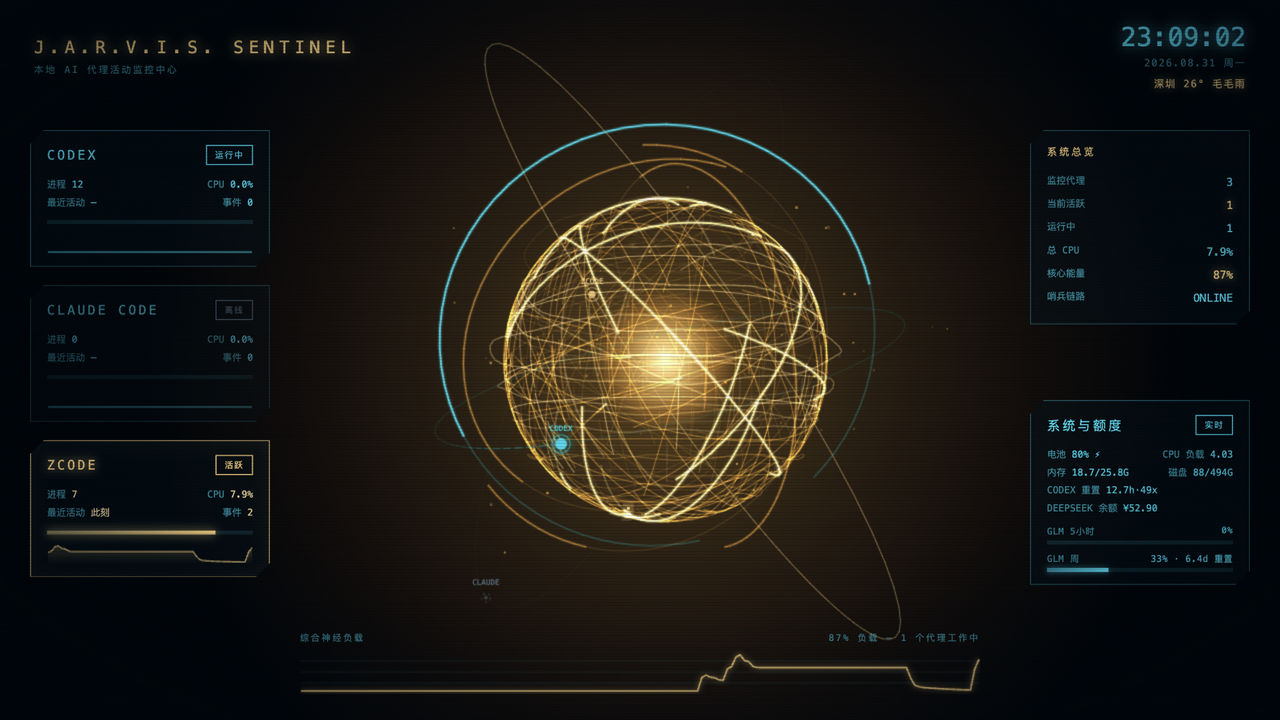
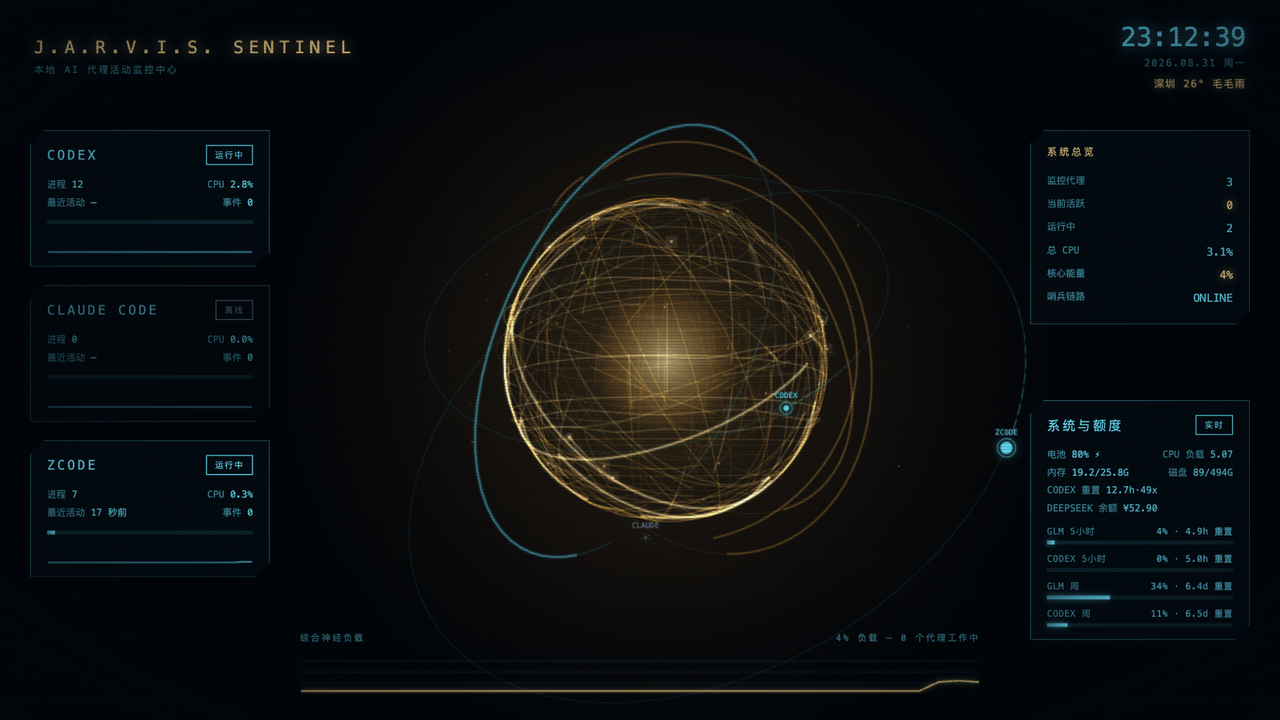
fix: Codex quota windows now work — initialize with clientInfo; 4 quota bars (GLM/CODEX x 5h/week); update screenshot

diff --git a/sentinel.py b/sentinel.py
@@ -11,6 +11,7 @@ JARVIS Sentinel — 本地 AI 编码代理活动哨兵
 import json
 import os
 import re
+import select
 import shutil
 import ssl
 import subprocess
@@ -311,8 +312,28 @@ CODEX_BINS = (
 )
 
 
+def _dur_name(mins):
+    """窗口时长 → 中文名（参考项目 durationName 的约定）"""
+    try:
+        m = int(mins or 0)
+    except (TypeError, ValueError):
+        return ""
+    if m == 300:
+        return "5小时"
+    if m == 10080:
+        return "周"
+    if m > 0 and m % 10080 == 0:
+        return f"{m // 10080}周"
+    if m > 0 and m % 1440 == 0:
+        return f"{m // 1440}天"
+    if m > 0 and m % 60 == 0:
+        return f"{m // 60}小时"
+    return ""
+
+
 def fetch_codex_rate():
-    """Codex 额度窗口：spawn 本机 codex app-server 查询 account/rateLimits/read"""
+    """Codex 额度窗口：spawn 本机 codex app-server 查询 account/rateLimits/read。
+    initialize 必须带 clientInfo（桌面版内置 codex 会校验），否则无响应。"""
     exe = next((p for p in CODEX_BINS if p and os.path.isfile(p)), None)
     if not exe:
         return {"ok": False, "error": "NO BIN"}
@@ -322,16 +343,23 @@ def fetch_codex_rate():
                                 stderr=subprocess.DEVNULL, text=True)
     except Exception as e:
         return {"ok": False, "error": str(e)[:80]}
-    result = {}
+    result, init_err = None, None
     try:
 
         def send(obj):
             proc.stdin.write(json.dumps(obj) + "\n")
             proc.stdin.flush()
 
-        send({"jsonrpc": "2.0", "id": 1, "method": "initialize", "params": {}})
+        send({"jsonrpc": "2.0", "id": 1, "method": "initialize", "params": {
+            "clientInfo": {"name": "jarvis-sentinel", "title": "JARVIS Sentinel",
+                           "version": "1.0"},
+            "capabilities": None,
+        }})
         deadline = time.time() + 18
-        while time.time() < deadline and result is None:
+        while time.time() < deadline:
+            r, _, _ = select.select([proc.stdout], [], [], 1.0)
+            if not r:
+                continue
             line = proc.stdout.readline()
             if not line:
                 break
@@ -339,33 +367,48 @@ def fetch_codex_rate():
                 msg = json.loads(line)
             except ValueError:
                 continue
-            if msg.get("id") == 1 and not msg.get("error"):
+            if msg.get("id") == 1:
+                if msg.get("error"):
+                    init_err = str(msg["error"])[:80]
+                    break
                 send({"method": "initialized", "params": {}})
                 send({"jsonrpc": "2.0", "id": 2,
                       "method": "account/rateLimits/read", "params": None})
             elif msg.get("id") == 2:
-                result = msg.get("result")
                 if msg.get("error"):
-                    return {"ok": False, "error": str(msg["error"])[:80]}
+                    init_err = str(msg["error"])[:80]
+                else:
+                    result = msg.get("result")
+                break
     except Exception as e:
-        return {"ok": False, "error": str(e)[:80]}
+        init_err = init_err or str(e)[:80]
     finally:
         try:
             proc.kill()
         except OSError:
             pass
+    if init_err:
+        return {"ok": False, "error": init_err}
     if not isinstance(result, dict):
-        return {"ok": False, "error": "bad response"}
-    raw = result.get("rateLimits") or result.get("windows") or []
+        return {"ok": False, "error": "no response"}
+    # 兼容两种结构：rateLimits 直接给出，或 rateLimitsByLimitId 字典
+    bucket = result.get("rateLimits")
+    if not bucket and isinstance(result.get("rateLimitsByLimitId"), dict):
+        by_id = result["rateLimitsByLimitId"]
+        bucket = by_id.get("codex") or next(iter(by_id.values()), None)
+    if not isinstance(bucket, dict):
+        return {"ok": False, "error": "empty"}
     wins = []
-    for item in raw:
+    for key, fallback in (("primary", "5小时"), ("secondary", "周")):
+        item = bucket.get(key)
+        if not item:
+            continue
         pct = _pct(item.get("usedPercent"))
         if pct is None:
             continue
-        mins = item.get("windowDurationMins") or 0
-        name = f"{int(mins / 60)}h" if mins else ""
-        resets = item.get("resetsAt")
-        wins.append({"name": name, "usedPct": pct,
+        resets = item.get("resetsAt") or 0
+        wins.append({"name": _dur_name(item.get("windowDurationMins")) or fallback,
+                     "usedPct": pct,
                      "resetAt": int(float(resets) * 1000) if resets else 0})
     if not wins:
         return {"ok": False, "error": "empty"}

diff --git a/README.md b/README.md
@@ -23,7 +23,7 @@ jarvis/
   - 本机系统：电池电量/充电状态、CPU 负载、内存、磁盘（`pmset`/`vm_stat`/`os.getloadavg`）
   - **Codex 额度重置**：最近一次重置时间、重置次数、平均间隔（codex-resets.com 公共 API，免密钥）
   - **天气**：实时温度与天气描述（Open-Meteo，免密钥；默认深圳，可用 `JARVIS_LAT`/`JARVIS_LON` 改）
-  - **DeepSeek / GLM 余额与额度窗口进度条**：GLM 每个额度窗口显示已用百分比进度条（≥70% 金色、≥90% 红色报警）、剩余额度与重置倒计时；Codex（调本机 `codex app-server`）的额度窗口同样尝试采集，未配置则省略。凭证自动读本机（见下文）
+  - **DeepSeek / GLM / Codex 余额与额度窗口进度条**：GLM（智谱 API）与 Codex（本机 `codex app-server`，initialize 需带 clientInfo）各返回 5小时/周 两个窗口，显示已用百分比进度条（≥70% 金色、≥90% 红色报警）与重置倒计时；凭证自动读本机（见下文）
 - 🚀 **J.A.R.V.I.S. 开机自检动画** + 全屏扫描线特效
 - 🔒 **纯本地**：检测数据仅在本机 127.0.0.1 上流转，不向任何外部发送（除免密钥的公共天气/重置接口外）
 
